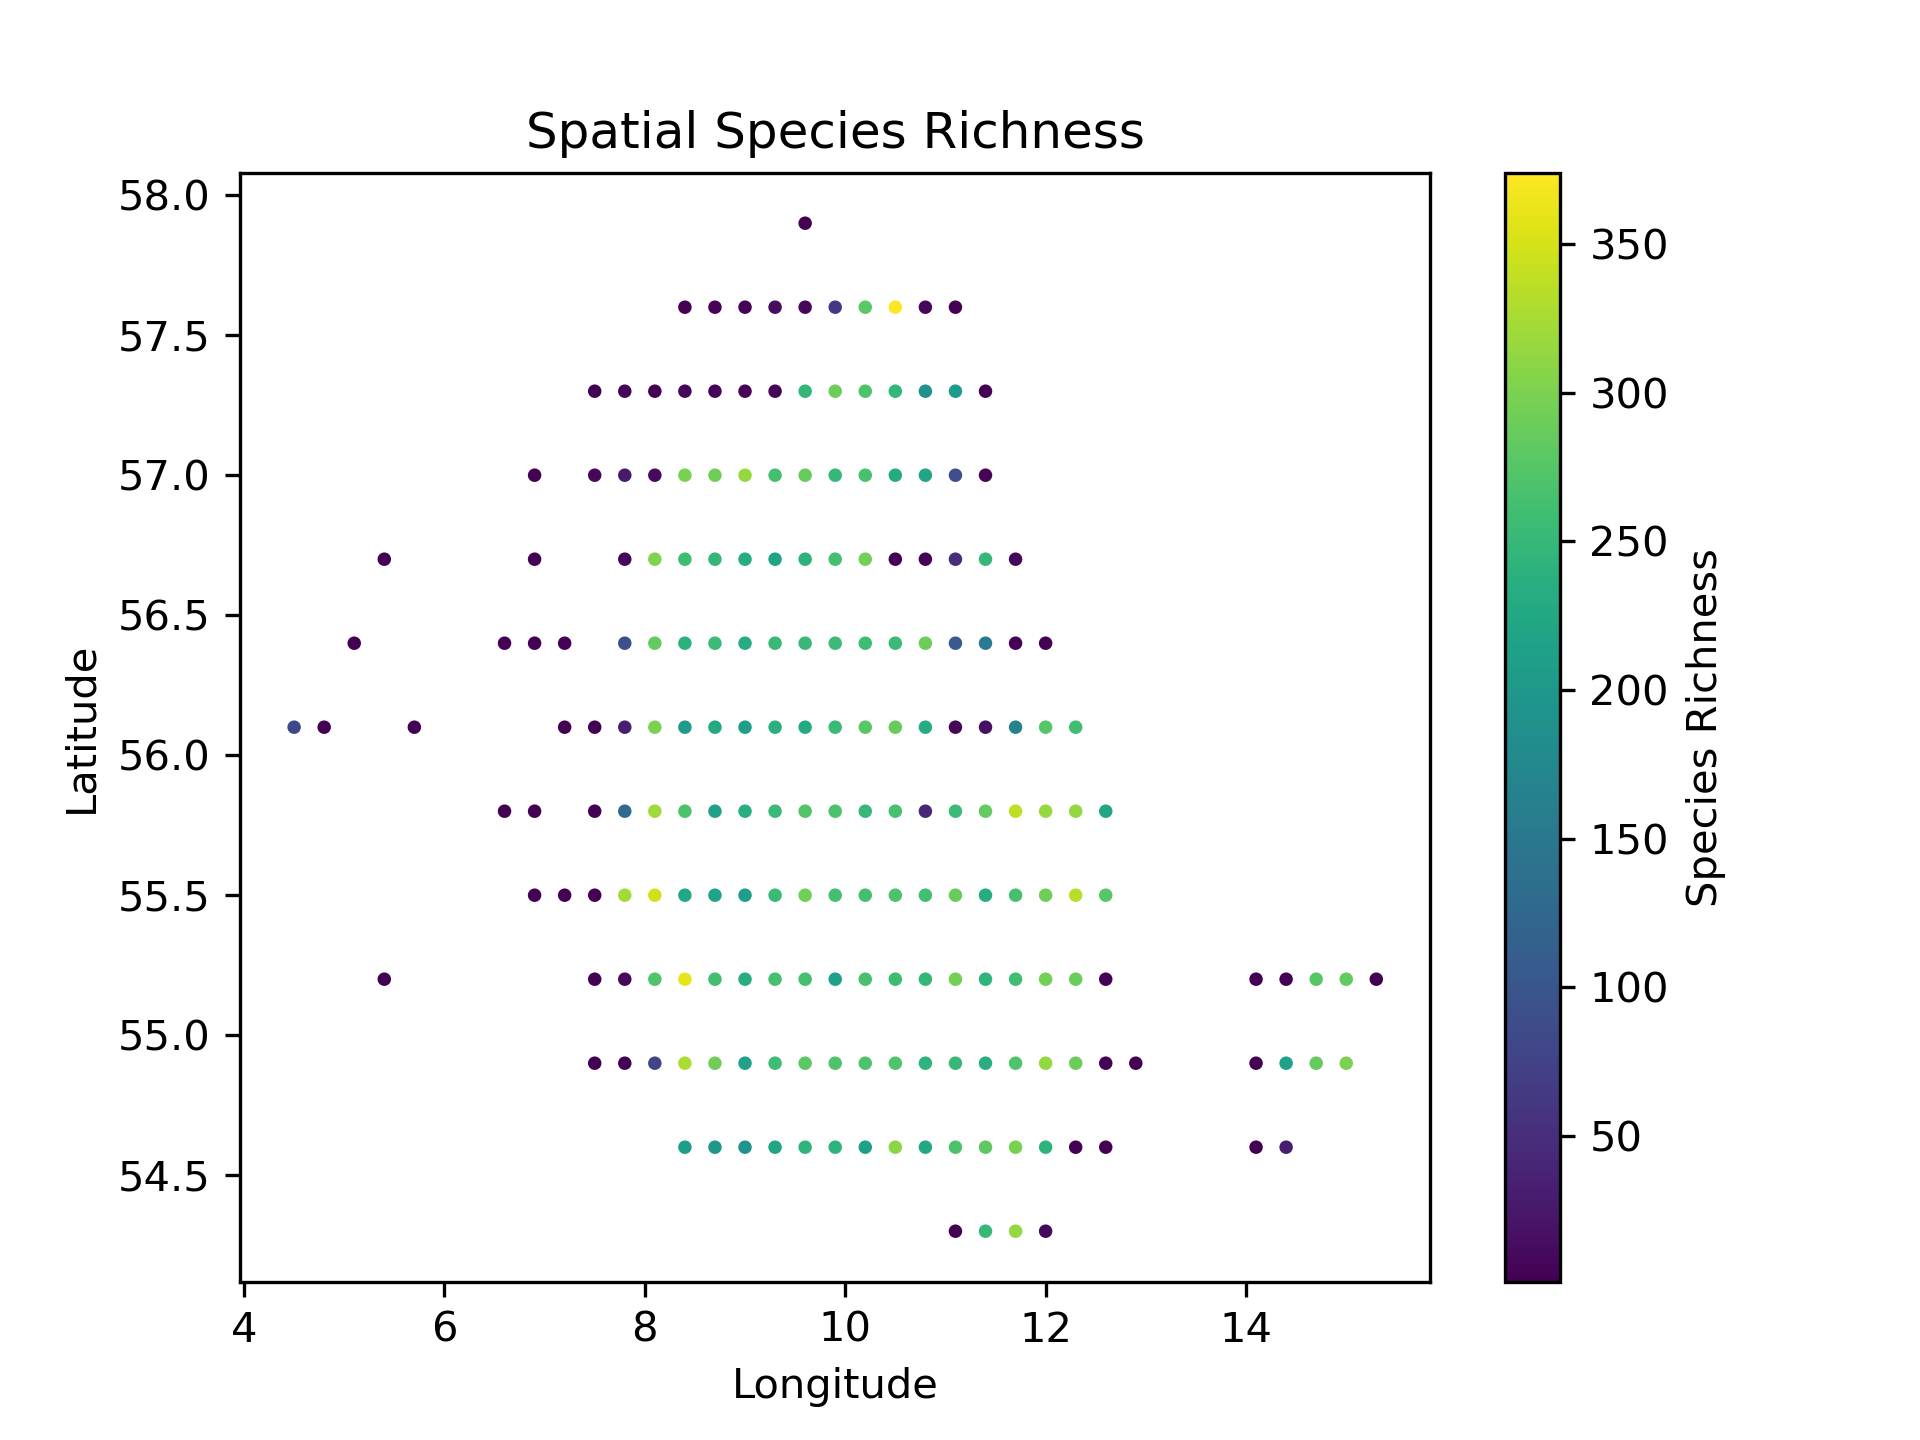
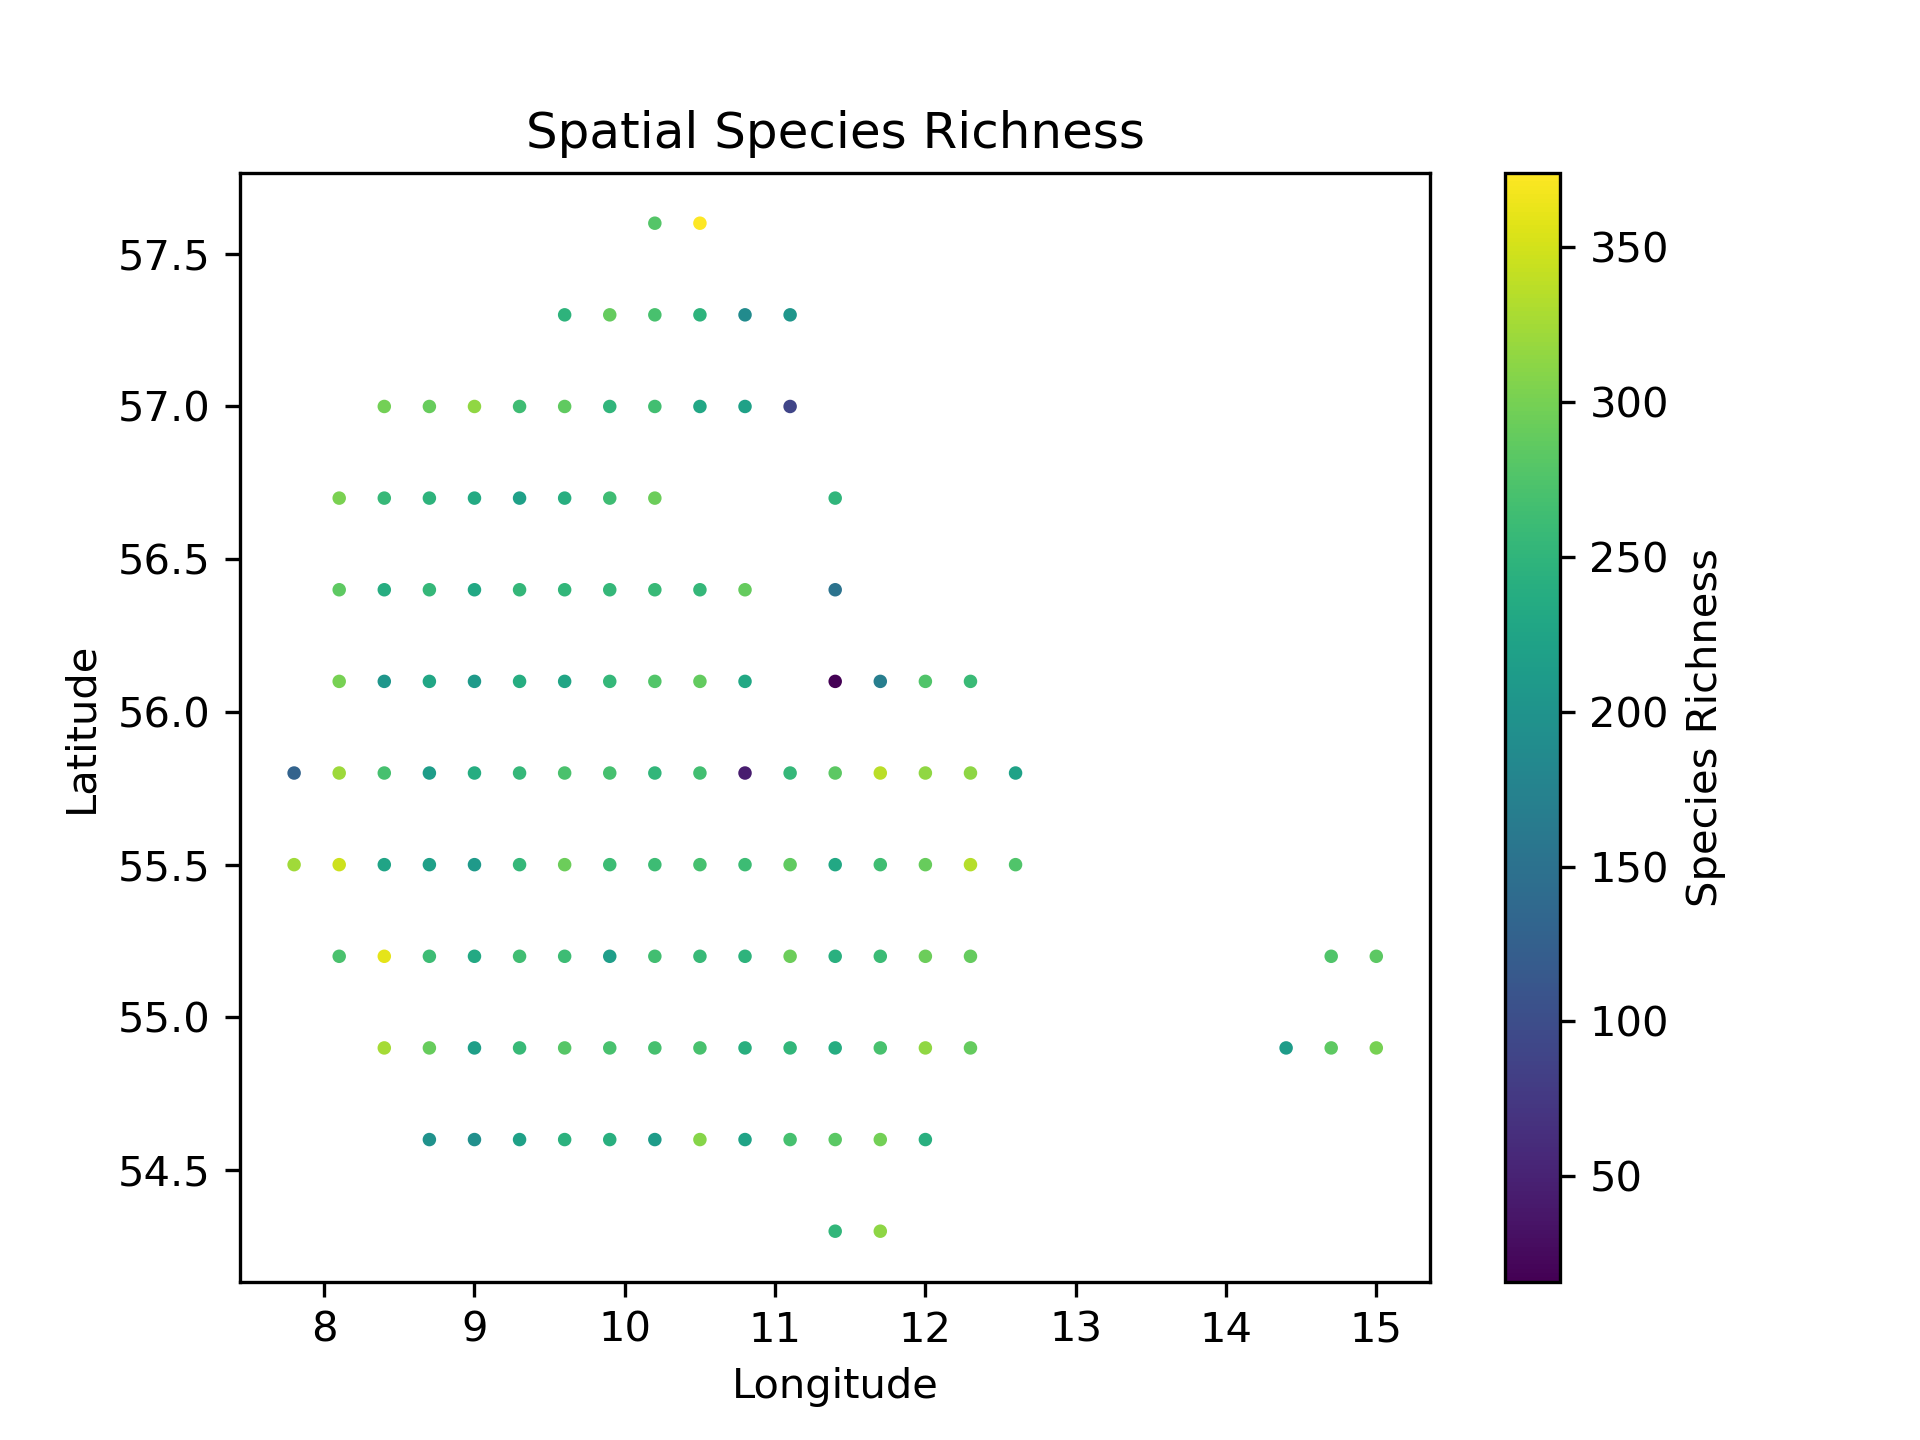
some files are modified

diff --git a/scripts/analysis_pipeline_2.py b/scripts/analysis_pipeline_2.py
@@ -179,7 +179,7 @@ def save_outputs(summary, occupancy, restricted, temporal):
 # =========================
 def main():
 
-    filepath = "data/dofbasen_birds_filtered.parquet"
+    filepath = "data/grid_assigned.parquet"
 
     print("Loading data...")
     df = load_data(filepath)
